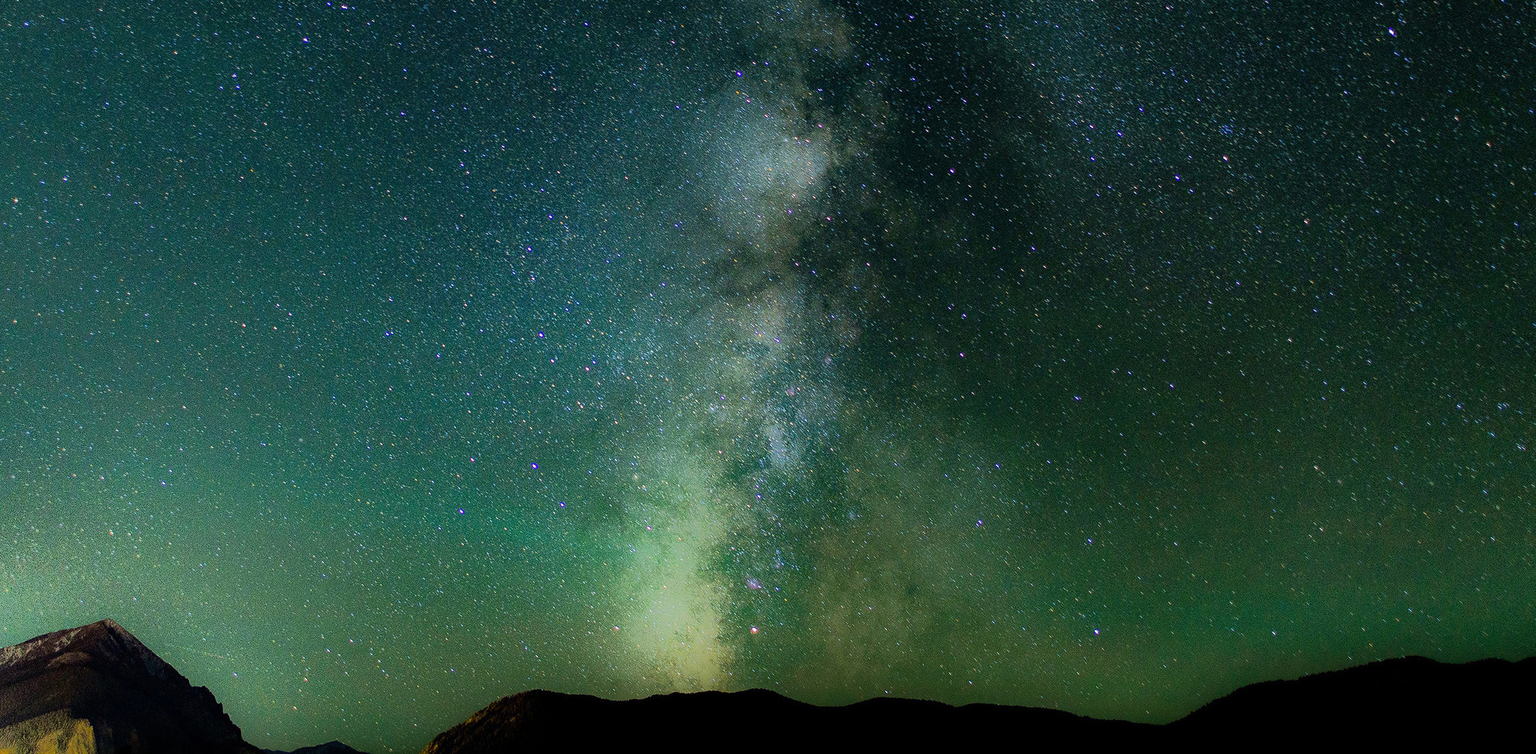
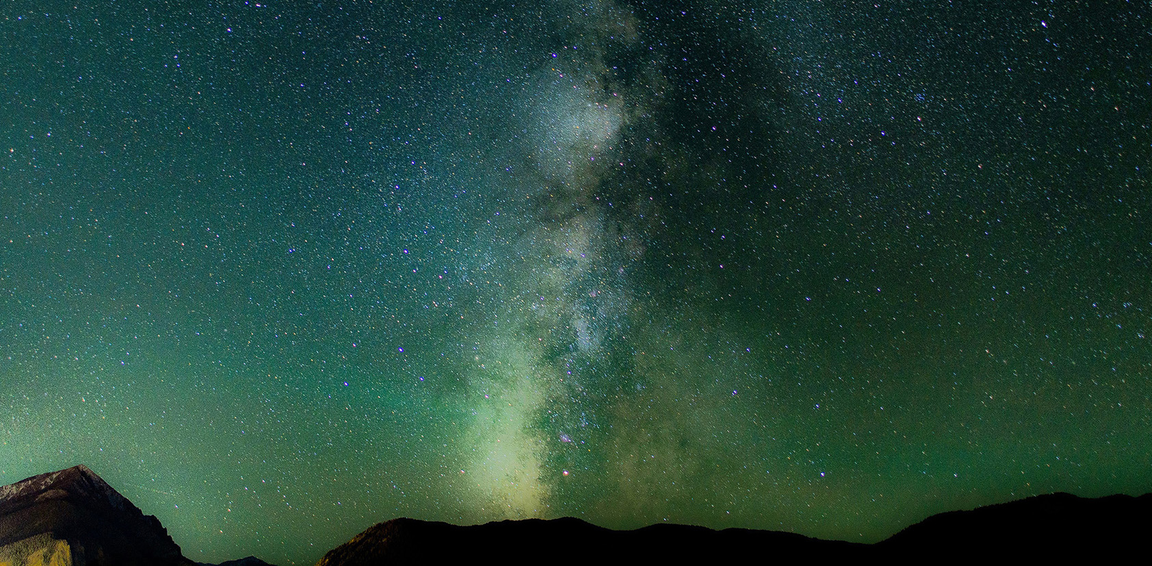
sixth commit worked on background image and started responsiveness

diff --git a/components/main.css b/components/main.css
@@ -1,18 +1,19 @@
 main {
     font-family: 'Roboto', sans-serif; 
     color: #D6E9D1;
-    background-image: url(/images/background-image2.jpg);
+    /* background-image: url(/images/background-image2.jpg);
     height: 90vh;
     background-position: left;
     background-size: cover;
     background-repeat: none;
-    background-attachment: fixed;
+    background-attachment: fixed; */
 }
 
-@media only screen and (max-width: 700px)
-main {
-    background-position: left;
-}
+/* @media only screen and (max-width: 700px) {
+    main {
+        background-image: url(/images/background-image2-mobile.jpg);
+    }
+} */
 
 .title-container {
     margin: 0px 0px 0px 100px;
@@ -22,6 +23,7 @@ main {
     width: 1000px;
     flex-direction:column;
     padding-top: 100px;
+    flex-flow: column;
 }
 
 .title-container h1 {
@@ -35,4 +37,11 @@ main {
     font-size: 50px;
     margin-top: 0px;
     margin-bottom: 0px;
+}
+
+@media only screen and (max-width: 700px) {
+    .title-container {
+        flex-wrap: wrap;
+        width: 300px;
+    }
 }

diff --git a/index.html b/index.html
@@ -25,7 +25,7 @@
     </nav>
     <main>
         <div class="title-container">
-            <h1>hello</h1>
+            <h1>Hello</h1>
             <h1>I'm Suz Topp</h1>
             <h3>I'm an aspiring developer, nice to meet you :)</h3>
         </div>

diff --git a/globals.css b/globals.css
@@ -2,3 +2,10 @@ body {
     margin= 0px;
     font-family: 'Roboto', sans-serif; 
 }
+
+html {
+    background: url(/images/background-image2.jpg) no-repeat center center fixed;
+    background-size: cover;
+    height: 100%;
+    overflow: hidden;
+}
